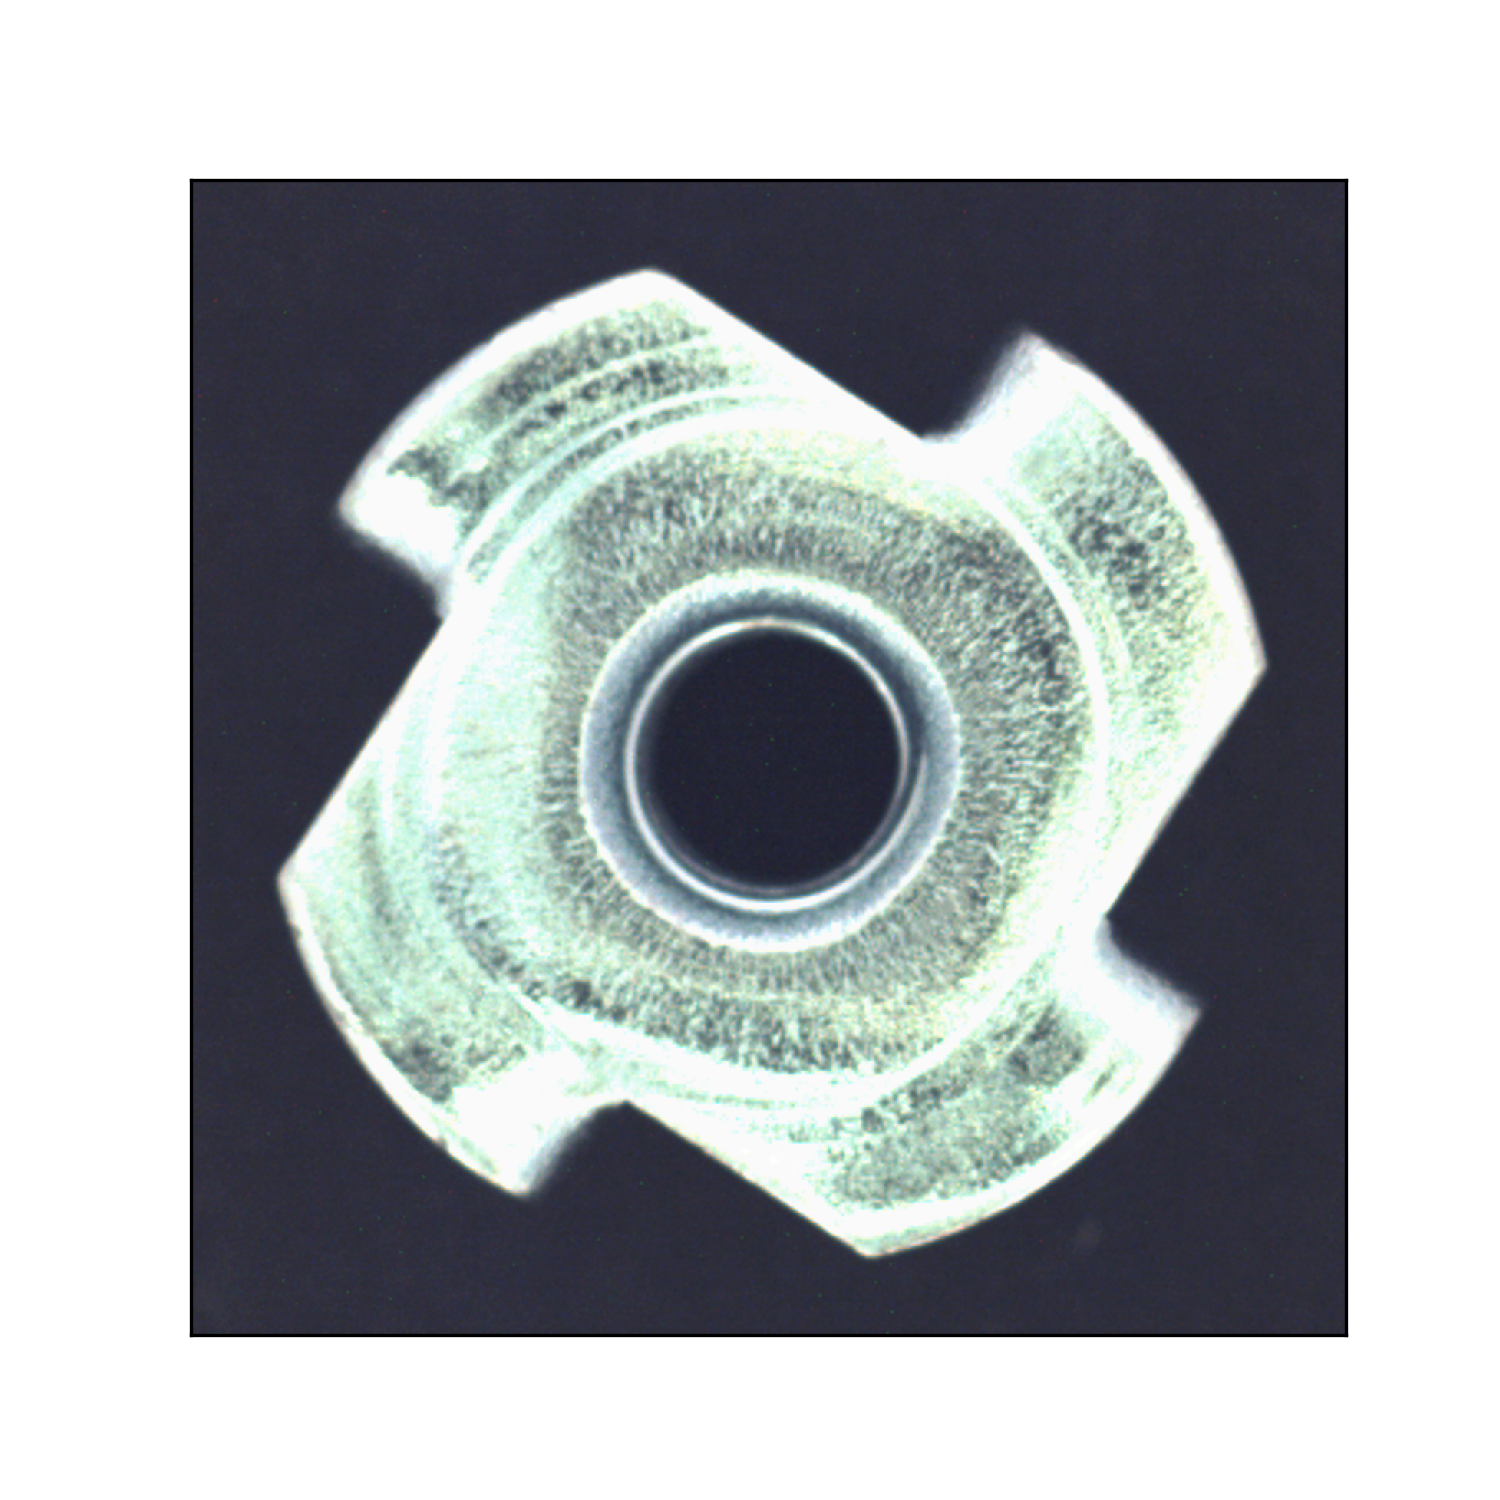
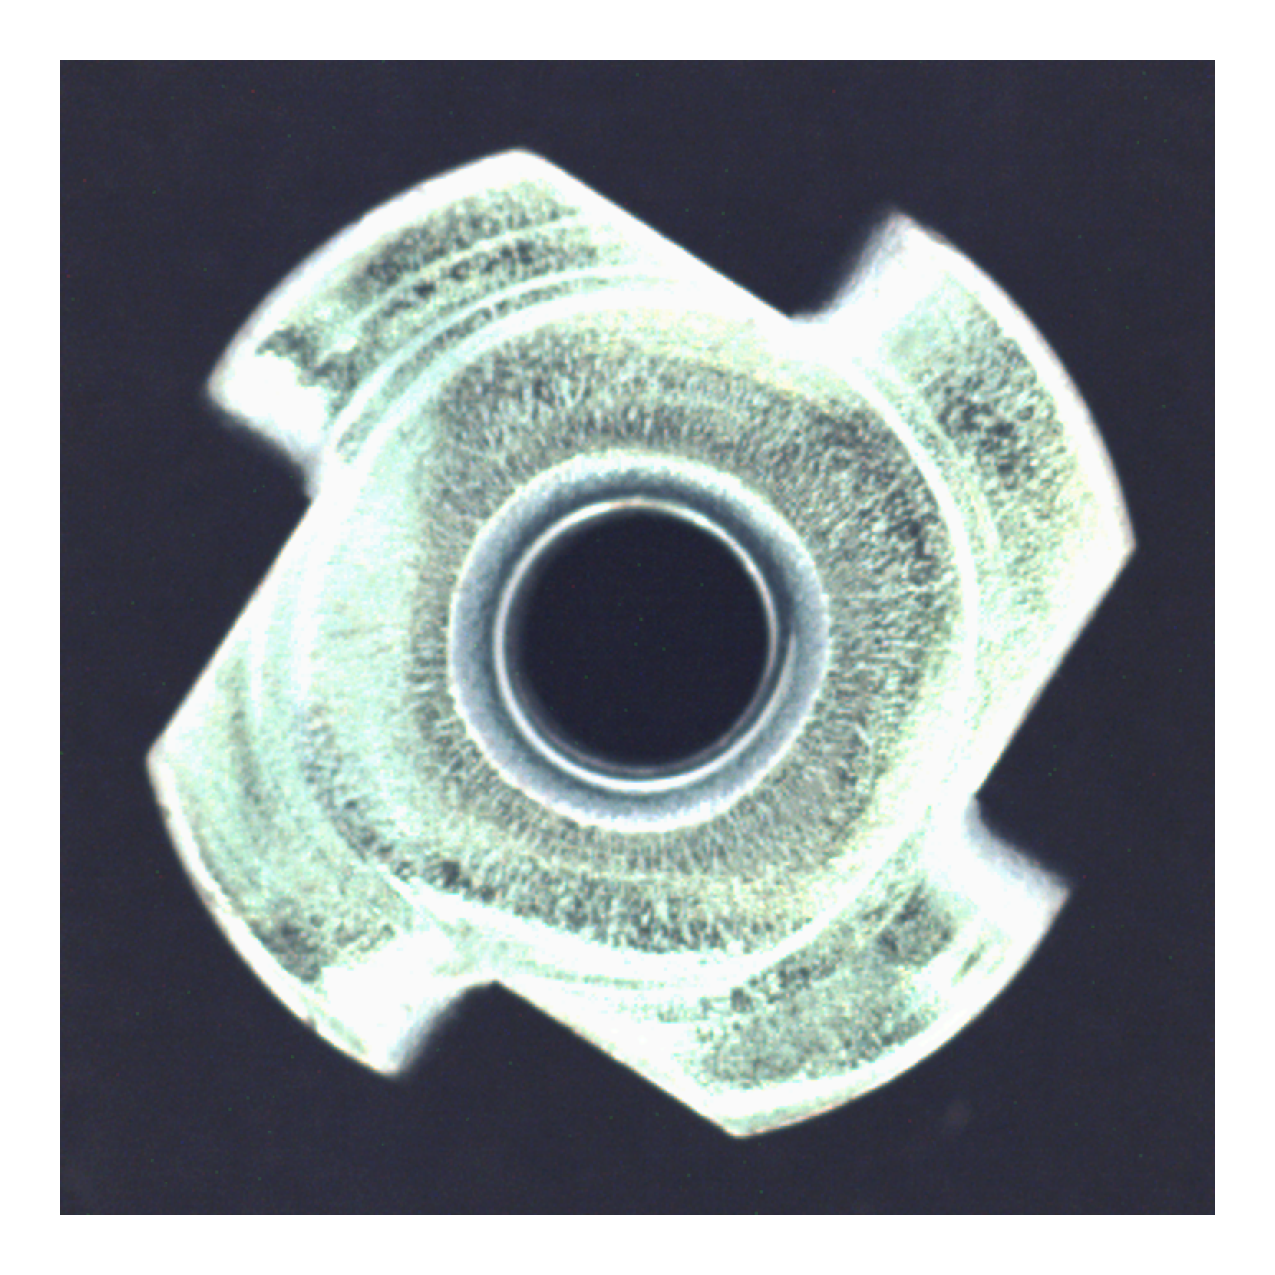
update

diff --git a/dip/DIP.py b/dip/DIP.py
@@ -25,7 +25,7 @@ def plt_line(X, Y, save_path):
     """
     plt.figure(figsize=(5, 5), dpi=300)
     plt.plot(X, Y, marker='o', markersize=5, markeredgecolor="red", markerfacecolor="red")
-    plt.savefig(save_path)
+    plt.savefig(save_path, bbox_inches='tight', pad_inches=0.2)
     plt.clf()
 
 
@@ -36,14 +36,14 @@ def plt_hist(img, save_path):
     :param save_path: 图片保存位置
     :return: None
     """
-    plt.figure(figsize=(5, 5), dpi=300)
     ar = img[:, :, 0].flatten()
+    plt.figure(figsize=(5, 5), dpi=300)
     plt.hist(ar, bins=256, density=1, facecolor='r', edgecolor='r')
     ag = img[:, :, 1].flatten()
     plt.hist(ag, bins=256, density=1, facecolor='g', edgecolor='g')
     ab = img[:, :, 2].flatten()
     plt.hist(ab, bins=256, density=1, facecolor='b', edgecolor='b')
-    plt.savefig(save_path)
+    plt.savefig(save_path, bbox_inches='tight', pad_inches=0.2)
     plt.clf()
 
 
@@ -55,10 +55,9 @@ def plt_imgs(img, save_path):
     :return: None
     """
     plt.figure(figsize=(5, 5), dpi=300)
-    plt.xticks([])
-    plt.yticks([])
+    plt.axis('off')
     plt.imshow(img[:, :, ::-1], cmap='gray', vmin=0, vmax=255)
-    plt.savefig(save_path)
+    plt.savefig(save_path, bbox_inches='tight', pad_inches=0.2)
     plt.clf()
 
 
@@ -91,12 +90,6 @@ class DIP(object):
     """
 
     def __init__(self, img_path: str, output_dir: str, x1: int = 0, x2: int = 255, y1: int = 0, y2: int = 255):
-        assert 0 <= x1 <= 255, "The value of x1 must be between 0 and 255 !"
-        assert 0 <= x2 <= 255, "The value of x2 must be between 0 and 255 !"
-        assert 0 <= y1 <= 255, "The value of y1 must be between 0 and 255 !"
-        assert 0 <= y2 <= 255, "The value of y2 must be between 0 and 255 !"
-        assert x1 <= x2, "The value of x1 must be lower than x2's !"
-        assert y1 <= y2, "The value of y1 must be lower than y2's !"
         self.init_img = img_path
         self.X1 = x1
         self.X2 = x2
@@ -142,8 +135,8 @@ class DIP(object):
         assert 0 <= x2 <= 255, "The value of x2 must be between 0 and 255 !"
         assert 0 <= y1 <= 255, "The value of y1 must be between 0 and 255 !"
         assert 0 <= y2 <= 255, "The value of y2 must be between 0 and 255 !"
-        assert x1 <= x2, "The value of x1 must be lower than x2's !"
-        assert y1 <= y2, "The value of y1 must be lower than y2's !"
+        assert x1 <= x2, "The value of x1 must be lower than x2 !"
+        assert y1 <= y2, "The value of y1 must be lower than y2 !"
         img_i = cv.imread(self.init_img).astype(np.uint8)
         img_d = linear_stretch(img_i, x1, x2, y1, y2)
         img_init = f'./{self.output}/dips_img.png'
@@ -182,9 +175,10 @@ class DIP(object):
         plt.figure(figsize=(width * 5, height * 5), dpi=300)
         img = [cv.imread(im).astype(np.uint8) for im in list_img]
         for im in img:
-            plt.subplot(height, width, (cnt + 1)), plt.imshow(im, cmap='gray', vmin=0, vmax=255), plt.title(kwargs[title[cnt]])
+            plt.subplot(height, width, (cnt + 1)), plt.imshow(im[:, :, ::-1], cmap='gray', vmin=0, vmax=255), plt.title(kwargs[title[cnt]])
+            plt.axis('off')
             cnt += 1
         plt.tight_layout()
-        plt.savefig(f"./{self.output}/cmp.png")
+        plt.savefig(f"./{self.output}/cmp.png", bbox_inches='tight', pad_inches=0.2)
         plt.show()
         plt.clf()
